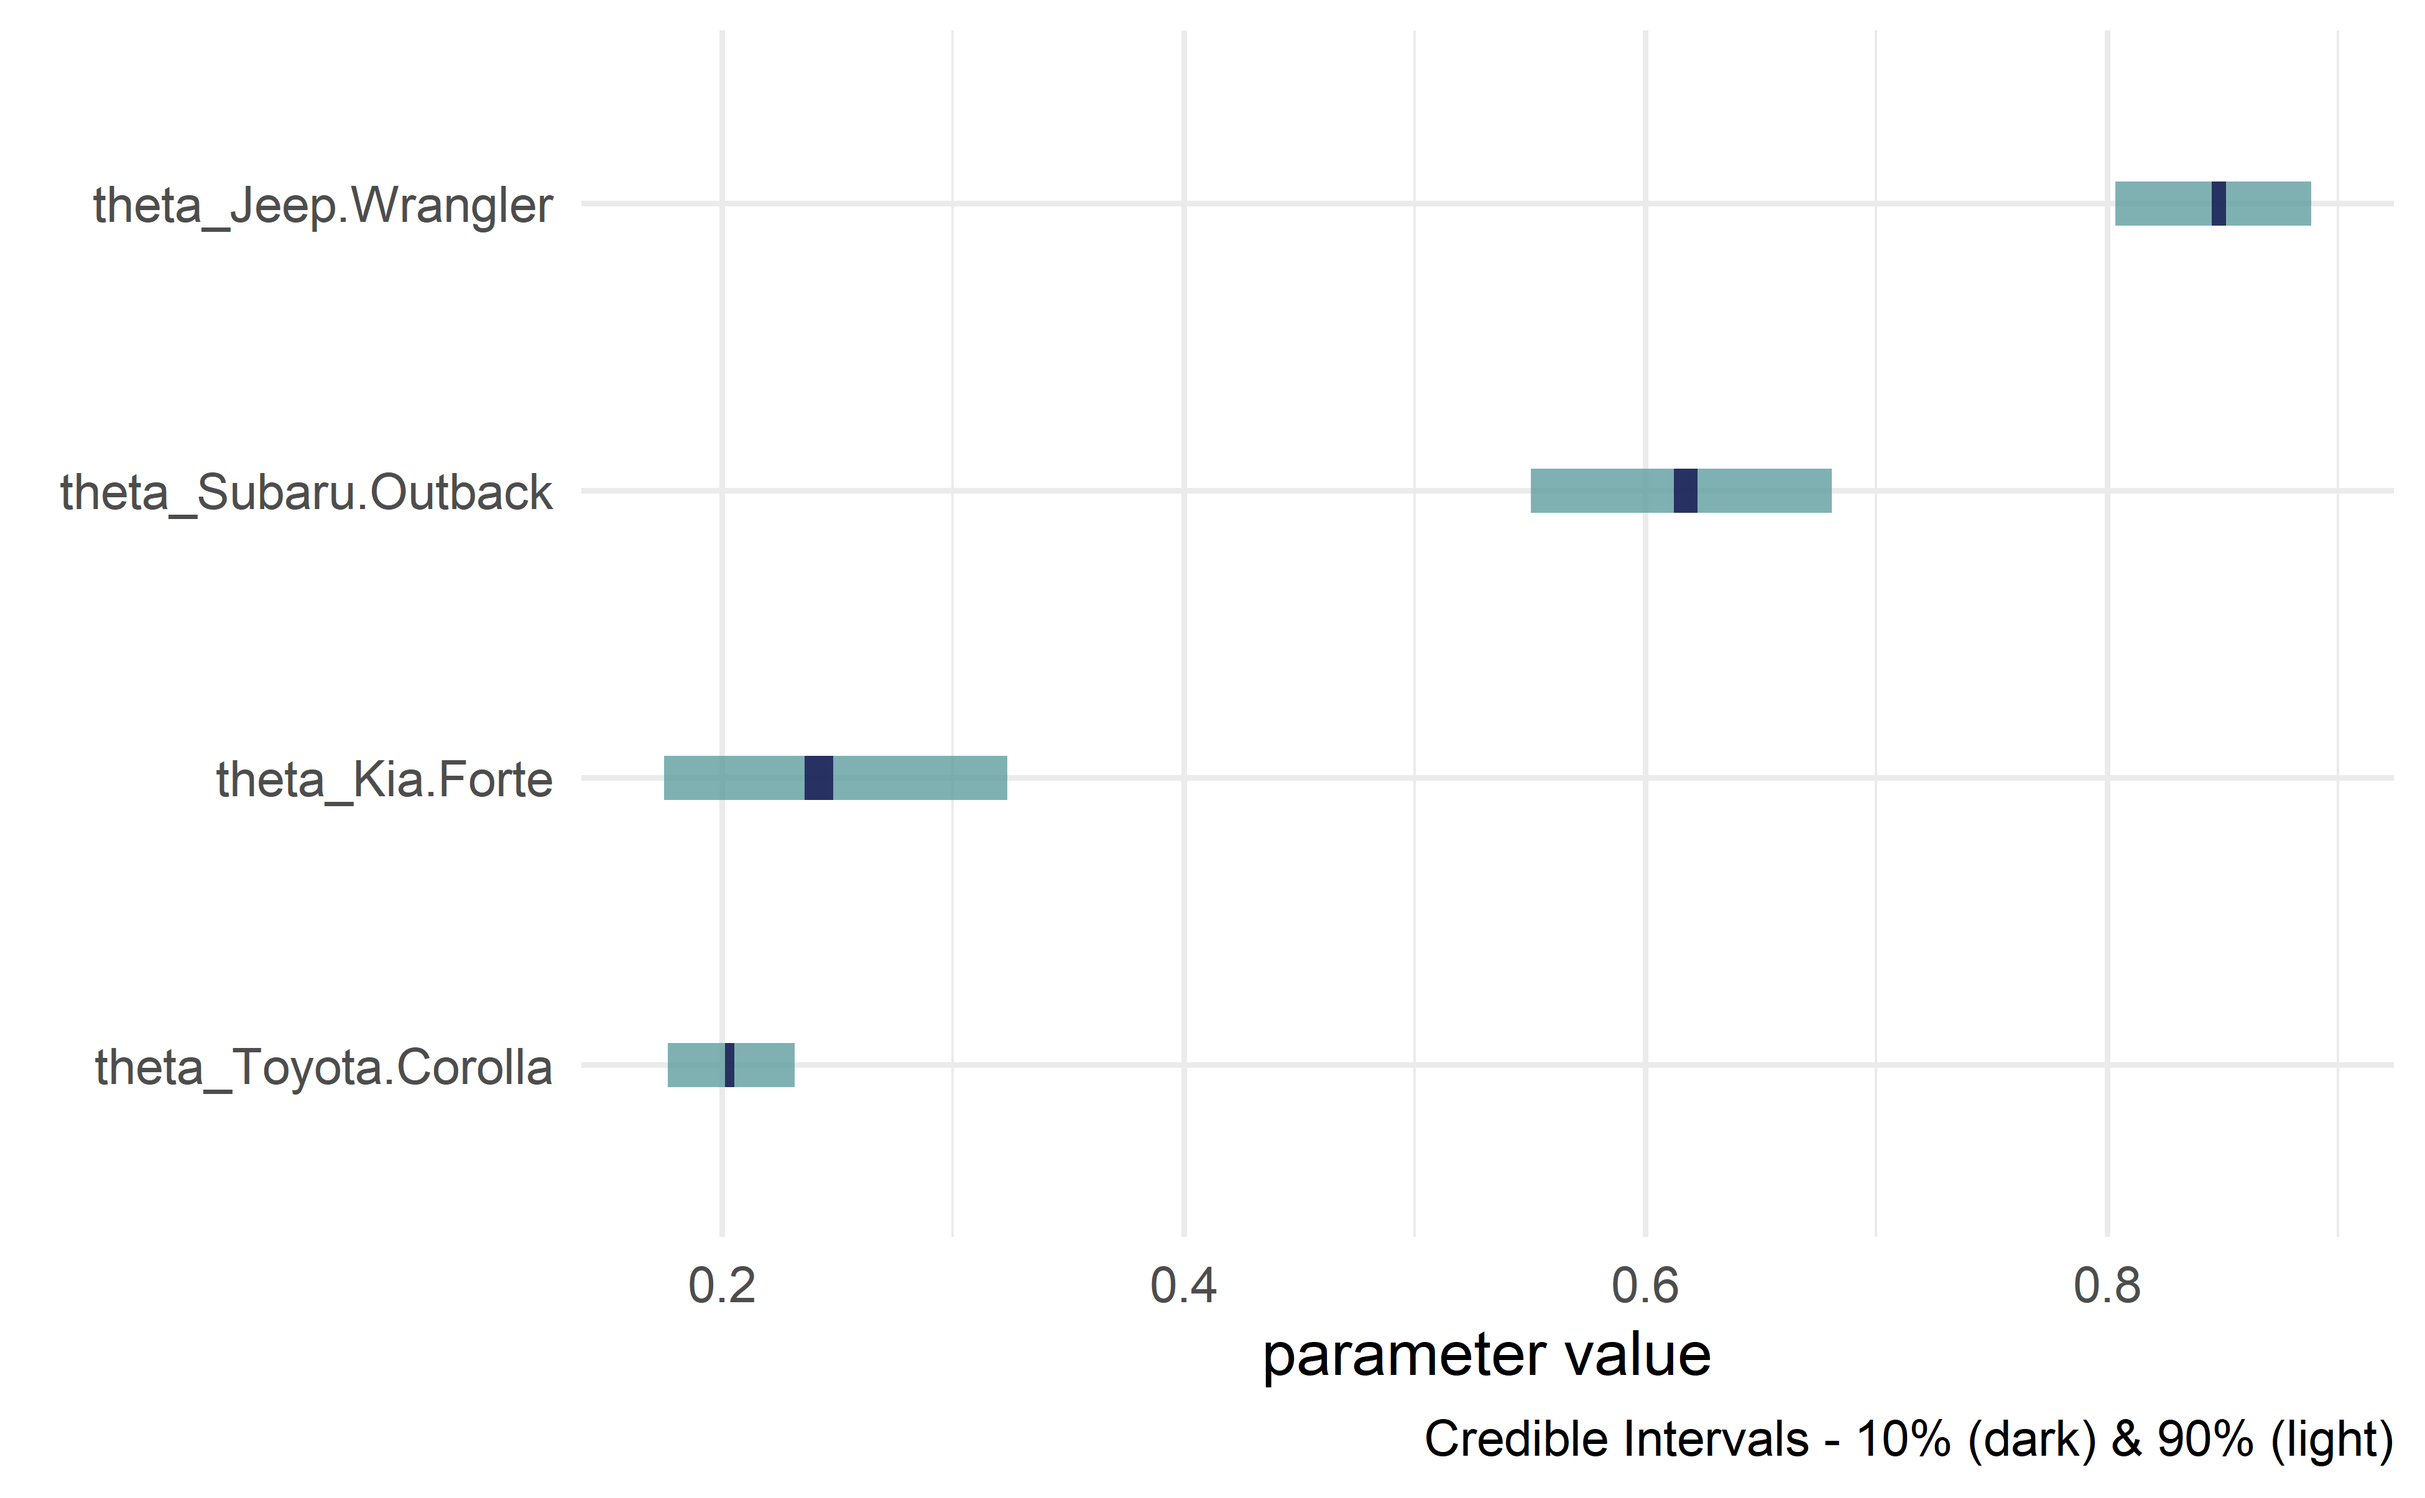
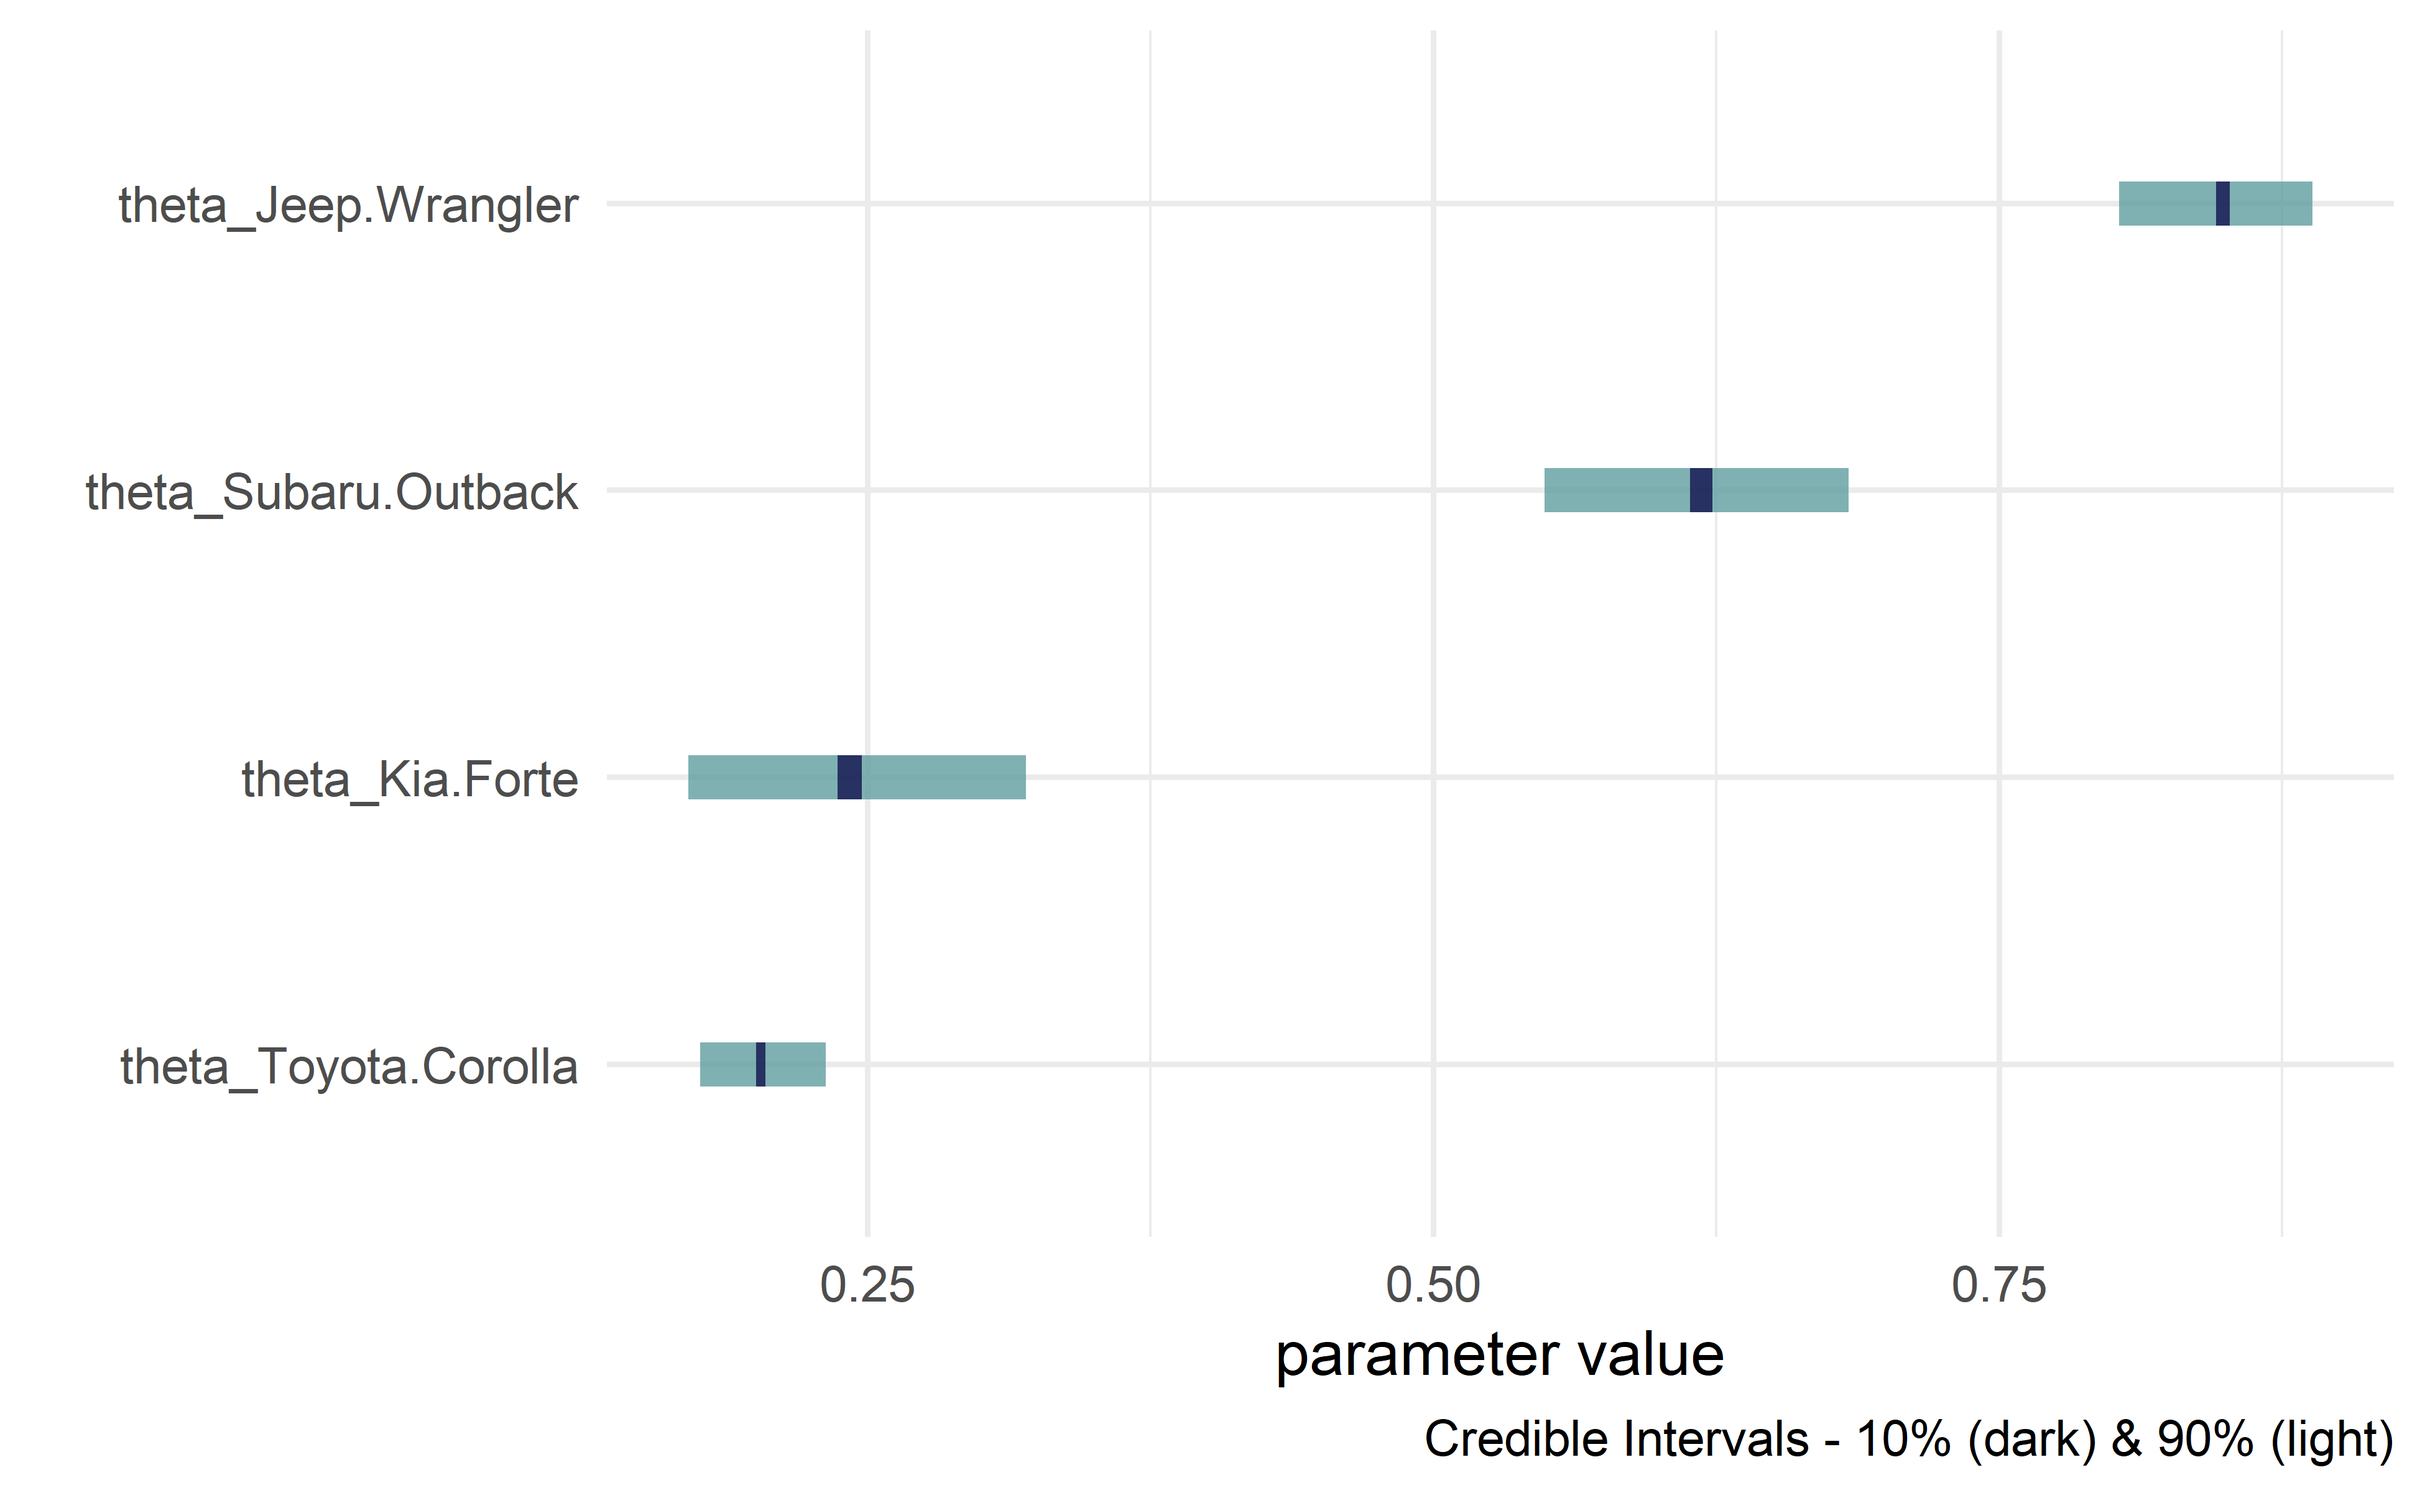
version 0.5.4

diff --git a/README.md b/README.md
@@ -84,6 +84,9 @@ library(causact)
 install_causact_deps()
 ```
 
+If prompted, respond with `Y` to any inquiries related to installing
+miniconda.
+
 > **Note**: If opting for installation on Posit Cloud, temporarily
 > adjust your project’s RAM to 4GB during the installation process
 > (remember to APPLY CHANGES). This preemptive measure helps avoid
@@ -91,8 +94,20 @@ install_causact_deps()
 > `Error: Error creating conda environment [exit code 137]`. After
 > installation, feel free to revert the settings to 1GB of RAM.
 
-If prompted, respond with `Y` to any inquiries related to installing
-miniconda.
+> **Note**: The September 11, 2023 release of `reticulate` (`v1.32`) has
+> caused an issue which gives a
+> `TypeError: the first argument must be callable` error when using
+> `dag_numpyro()` on windows. If you experience this, install the dev
+> version of `reticulate` by following the below steps:
+>
+> 1)  Install RTOOLS by using installer at:
+>     <https://cran.r-project.org/bin/windows/Rtools/>
+>
+> 2)  Run this to get the dev version of `reticulate`:
+
+    # install DEV version of reticulate
+    # install.packages("pak") #uncomment as needed
+    pak::pak("rstudio/reticulate")
 
 ### Retrograde Compatibility (Not Advised)
 
@@ -105,7 +120,7 @@ that this approach is **not recommended** for general usage:
 ### EXERCISE CAUTION BEFORE EXECUTING THESE LINES
 ### Only proceed if dag_greta() is integral to your existing codebase
 install.packages("remotes")
-remotes::install_github("flyaflya/causact@0.4.2")
+remotes::install_github("flyaflya/causact@v0.4.2")
 ```
 
 Your judicious choice of installation method will ensure a seamless and
@@ -167,16 +182,16 @@ drawsDF  ### see top of data frame
 #> # A tibble: 4,000 × 4
 #>    theta_Toyota.Corolla theta_Subaru.Outback theta_Kia.Forte theta_Jeep.Wrangler
 #>                   <dbl>                <dbl>           <dbl>               <dbl>
-#>  1                0.192                0.633           0.210               0.794
-#>  2                0.215                0.602           0.282               0.892
-#>  3                0.200                0.621           0.299               0.890
-#>  4                0.223                0.621           0.213               0.778
-#>  5                0.220                0.611           0.261               0.788
-#>  6                0.228                0.619           0.247               0.811
-#>  7                0.228                0.619           0.247               0.811
-#>  8                0.227                0.635           0.231               0.810
-#>  9                0.222                0.600           0.291               0.888
-#> 10                0.205                0.605           0.236               0.841
+#>  1                0.214                0.609           0.199               0.844
+#>  2                0.228                0.563           0.232               0.818
+#>  3                0.217                0.611           0.255               0.848
+#>  4                0.206                0.648           0.261               0.876
+#>  5                0.187                0.624           0.313               0.819
+#>  6                0.166                0.606           0.229               0.848
+#>  7                0.213                0.622           0.234               0.839
+#>  8                0.206                0.588           0.253               0.855
+#>  9                0.211                0.646           0.219               0.855
+#> 10                0.196                0.590           0.271               0.840
 #> # ℹ 3,990 more rows
 ```
 
@@ -222,9 +237,9 @@ numpyroCode = graph %>% dag_numpyro(mcmc = FALSE)
 #> ## note that above is from JAX numpy package, not numpy.
 #> 
 #> y = np.array(r.carModelDF.getCard)   #DATA
-#> x      = pd.factorize(r.carModelDF.carModel,use_na_sentinel=True)[0]   #DIM
+#> x      = pd.factorize(np.array(r.carModelDF.carModel),use_na_sentinel=True)[0]   #DIM
 #> x_dim  = len(np.unique(x))   #DIM
-#> x_crd  = pd.factorize(r.carModelDF.carModel,use_na_sentinel=True)[1]   #DIM
+#> x_crd  = pd.factorize(np.array(r.carModelDF.carModel),use_na_sentinel=True)[1]   #DIM
 #> def graph_model(y,x):
 #>  ## Define random variables and their relationships
 #>  with npo.plate('x_dim',x_dim):
@@ -235,7 +250,7 @@ numpyroCode = graph %>% dag_numpyro(mcmc = FALSE)
 #> 
 #> # computationally get posterior
 #> mcmc = MCMC(NUTS(graph_model), num_warmup = 1000, num_samples = 4000)
-#> rng_key = random.PRNGKey(seed = 111)
+#> rng_key = random.PRNGKey(seed = 1234567)
 #> mcmc.run(rng_key,y,x)
 #> drawsDS = az.from_numpyro(mcmc,
 #>  coords = {'x_dim': x_crd},

diff --git a/NEWS.md b/NEWS.md
@@ -1,3 +1,6 @@
+# causact 0.5.4
+* patch release to fix installation issues. The default installation workflow now uses `numpyro==0.13.2` to avoid `ModuleNotFoundError: No module named 'jax.linear_util'`.
+
 # causact 0.5.3
 * Fixed bug where beta distribution was being treated as Laplace distribution.
 * Fixed bug where nested plated were being indexed incorrectly in Python.
